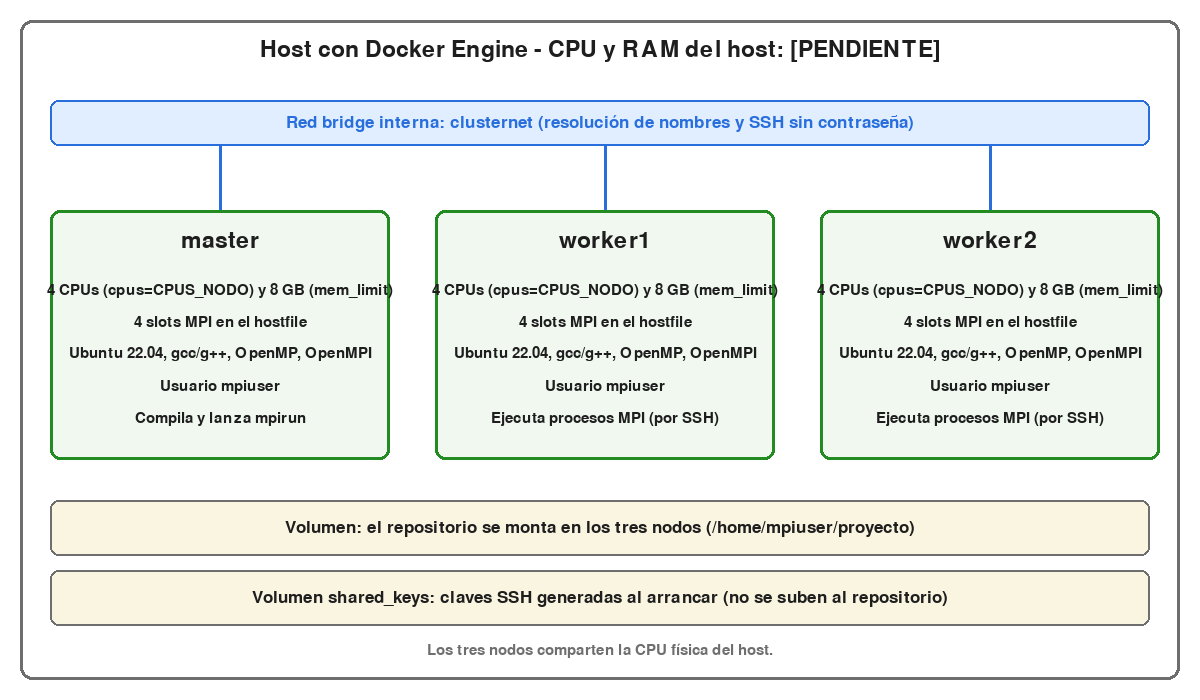
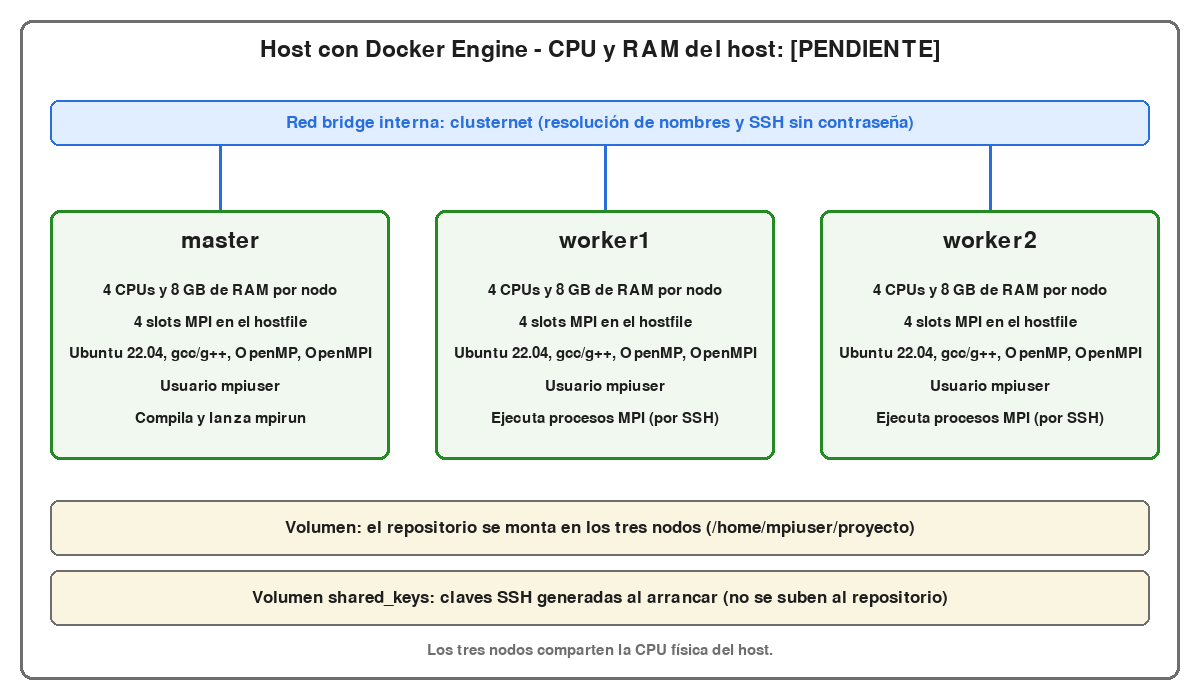
fix(informe): acortar texto de contenedores en el diagrama del clúster

Changed region(s): [[0.6783, 0.39, 0.9867, 0.42], [0.0308, 0.39, 0.3392, 0.42], [0.37, 0.39, 0.6475, 0.42]]

diff --git a/scripts/diagrama_cluster.py b/scripts/diagrama_cluster.py
@@ -38,7 +38,7 @@ for k, (nom, rol) in enumerate(nodos):
     pygame.draw.rect(s, (240, 248, 240), r, border_radius=10)
     pygame.draw.rect(s, VERDE, r, 3, border_radius=10)
     texto(nom, f_t, NEGRO, r.centerx, r.y + 30)
-    for i, l in enumerate(["4 CPUs (cpus=CPUS_NODO) y 8 GB (mem_limit)",
+    for i, l in enumerate(["4 CPUs y 8 GB de RAM por nodo",
                            "4 slots MPI en el hostfile",
                            "Ubuntu 22.04, gcc/g++, OpenMP, OpenMPI",
                            "Usuario mpiuser", rol]):
